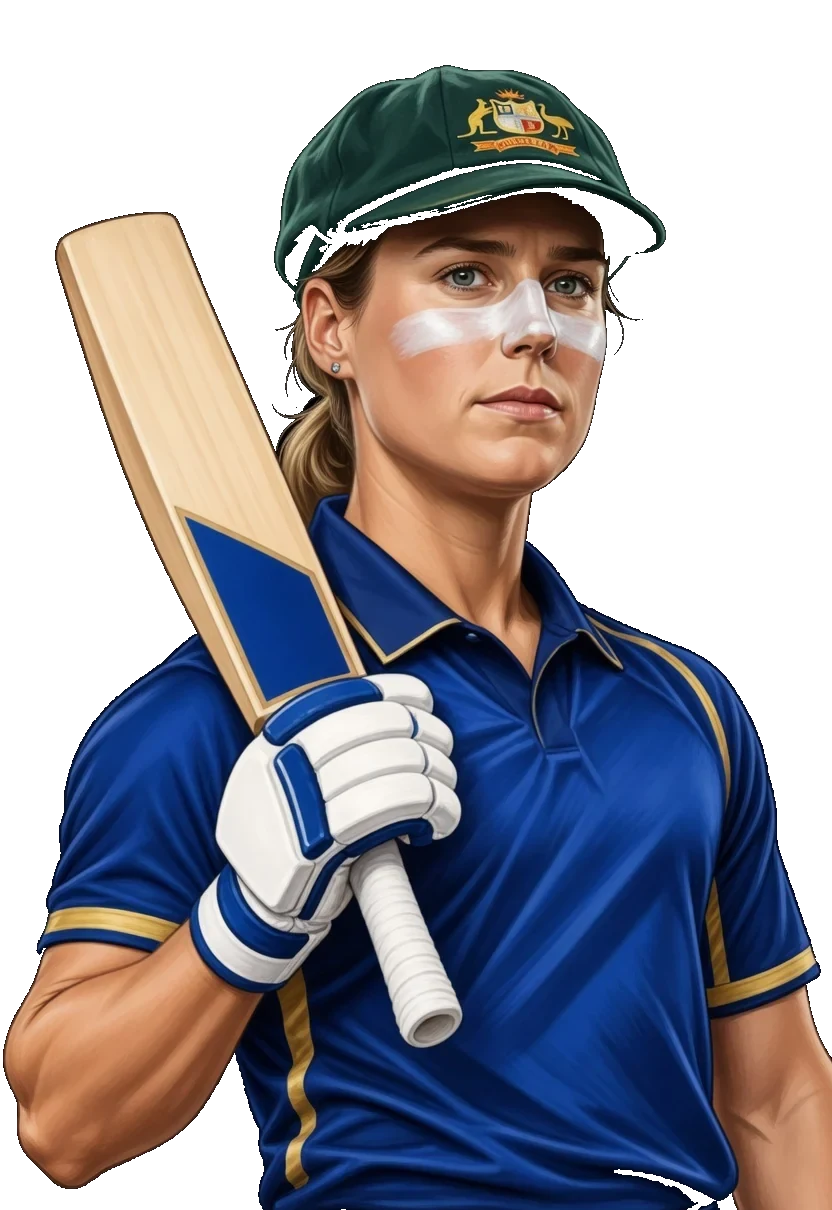
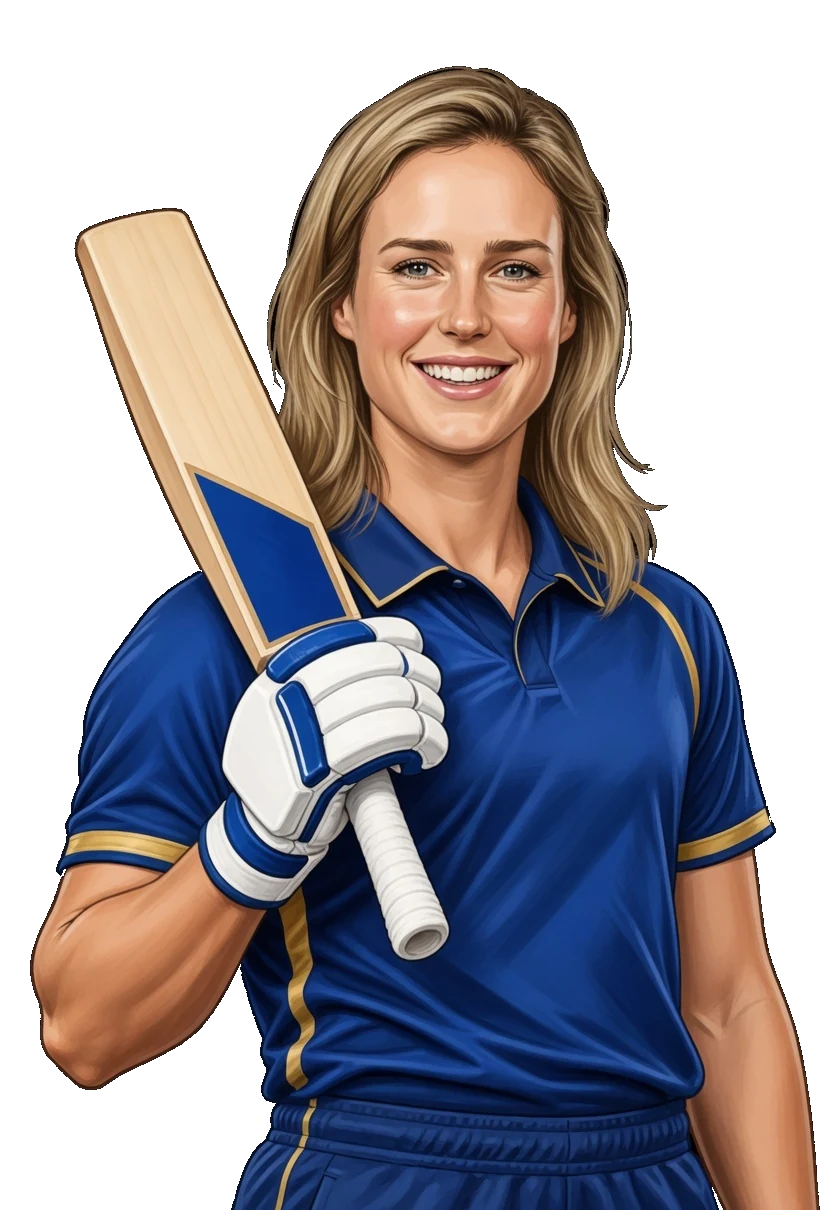
Fix mobile hero crop and refresh women's player cutouts

diff --git a/web/home.css b/web/home.css
@@ -9,7 +9,7 @@
 .hero-cast{position:absolute;right:1%;bottom:0;z-index:1;display:flex;align-items:flex-end;height:88%;max-width:46%;pointer-events:none}
 .hero-face{width:clamp(70px,5.8vw,112px);flex:0 0 auto;margin-left:-1.4vw;text-decoration:none;color:#e8f1ff;pointer-events:auto;display:flex;flex-direction:column;align-items:center;filter:drop-shadow(0 16px 22px #0007)}
 .hero-face:first-child{margin-left:0}.hero-face:nth-child(even){transform:translateY(18px)}.hero-face img{width:100%;height:auto;display:block;background:transparent}
-.hero-face span{font-size:9px;letter-spacing:.04em;margin:6px 0 18px;text-align:center;text-shadow:0 1px 8px #000}.hero-primary{background:#3478f6;border:1px solid #71a5ff;color:white;padding:13px 19px;border-radius:8px;box-shadow:0 6px 30px #2366ed40}.hero-primary:hover{background:#2464db;text-decoration:none}.hero-primary span{margin-left:20px}.hero-secondary{color:#d0e0f7}.hero-secondary span{margin-left:6px}
+.hero-face span{font-size:9px;letter-spacing:.04em;margin:6px 0 18px;text-align:center;text-shadow:0 1px 8px #000;white-space:normal;line-height:1.2;width:100%}.hero-primary{background:#3478f6;border:1px solid #71a5ff;color:white;padding:13px 19px;border-radius:8px;box-shadow:0 6px 30px #2366ed40}.hero-primary:hover{background:#2464db;text-decoration:none}.hero-primary span{margin-left:20px}.hero-secondary{color:#d0e0f7}.hero-secondary span{margin-left:6px}
 .hero-find{margin-top:35px;max-width:374px}.hero-find label{font-size:9px;letter-spacing:1.7px;color:#a6bcd6;margin-bottom:9px}.hero-find>div{display:flex;background:#0d2238c9;border:1px solid #637f9b66;border-radius:8px;overflow:hidden}.hero-find input{background:transparent;color:#fff;border:0;width:100%;min-width:0;font-size:12px;padding:13px}.hero-find input::placeholder{color:#b6c6d8;opacity:1}.hero-find button{border:0;border-radius:0;color:#c3ddff;background:transparent;font-size:20px;padding:5px 18px}
 .hero-float{position:absolute;padding:17px 20px;border:1px solid #9fc5ff40;border-radius:13px;background:linear-gradient(120deg,#1d3d62b8,#081c32d6);backdrop-filter:blur(16px);box-shadow:0 15px 45px #0003;color:#fff;animation:record-float 6s ease-in-out infinite;transform:translate3d(0,0,45px)}
 .hero-float>span{font-size:8px;letter-spacing:1.4px;color:#b5cbe6;display:block}.hero-float strong{font-size:29px;letter-spacing:-1px;line-height:1.25;display:block;margin-top:8px;font-variant-numeric:tabular-nums}.hero-float small{display:block;font-size:11px;font-weight:500;letter-spacing:0;color:#c5d7eb;margin-top:3px}.hero-float-top{right:32px;top:46px;width:209px}.hero-float-bottom{right:35px;bottom:86px;animation-delay:-3s;width:213px}.hero-float-bottom:hover{text-decoration:none;border-color:#9fc5ff}.hero-mini-bars{display:flex;height:26px;align-items:end;gap:6px;margin-top:13px}.hero-mini-bars i{flex:1;border-radius:2px;background:linear-gradient(#78bdff,#326acb);height:35%}.hero-mini-bars i:nth-child(2n){height:60%}.hero-mini-bars i:nth-child(3n){height:80%}.hero-mini-bars i:last-child{height:100%}
@@ -27,7 +27,7 @@
 @media(min-width:1450px){.hero-copy h1{font-size:65px}}
 @media(max-width:1000px){.hero-copy{padding-left:32px;width:62%}.hero-copy h1{font-size:49px}.hero-float-top{right:20px;top:32px;width:180px}.hero-float-bottom{right:20px;width:180px}.hero-bottom{left:32px}.hero-description{max-width:320px}.story-heading{align-items:start;flex-direction:column}}
 @media(max-width:1000px){.hero-cast{height:70%;right:0}.hero-face{width:88px}.hero-face img{width:88px}.hero-copy{width:58%}}
-@media(max-width:700px){.hero-cast{position:relative;height:auto;right:auto;margin:8px 12px 70px;overflow-x:auto;padding:0 8px}.hero-face{width:96px;margin-left:-10px;transform:none!important}.hero-face img{width:96px}.cricket-hero{margin-top:18px;min-height:920px;border-radius:17px}.hero-copy{padding:35px 25px 0;width:100%}.hero-copy h1{font-size:clamp(34px,10.3vw,48px);letter-spacing:-1.7px}.hero-kicker{font-size:8px;letter-spacing:1.4px;margin-bottom:22px}.hero-description{font-size:13px;max-width:350px;line-height:1.7;margin-bottom:23px}.hero-actions{gap:18px;font-size:11px}.hero-primary{padding:12px 14px}.hero-primary span{margin-left:12px}.hero-find{margin-top:24px;max-width:none}.hero-art{inset:auto -4% 24px;height:430px}.hero-art img{object-position:72% center}.cricket-hero:after{background:linear-gradient(180deg,#031020 0%,#031020 45%,transparent 67%,#03102000 88%,#031020 98%)}.hero-float-top{display:none}.hero-float-bottom{left:20px;right:auto;bottom:85px;width:158px;padding:12px 14px}.hero-float strong{font-size:25px}.hero-float>span{font-size:7px;letter-spacing:1px}.hero-float small{font-size:10px}.hero-bottom{left:20px;right:20px;bottom:20px}.hero-bottom i{display:none}.hero-bottom>span{font-size:8px;letter-spacing:1px}.hero-bottom b{margin:0 4px}.hero-motion{font-size:9px}.archive-story{padding:20px}.story-heading h2{font-size:24px}.story-filters{width:100%;gap:10px}.story-filters label{flex:1;min-width:0}.story-filters select{min-width:0;width:100%}.chart-summary strong{display:block}.cricket-timeline{grid-template-columns:repeat(2,minmax(0,1fr));gap:16px}.cricket-timeline h3{font-size:13px}.cricket-timeline a{padding-left:12px;padding-right:25px}.timeline-arrow{right:10px}}
+@media(max-width:700px){.cricket-hero{margin-top:18px;min-height:0;border-radius:17px}.hero-copy{padding:28px 20px 8px;width:100%}.hero-cast{position:relative;height:auto;max-width:none;width:auto;right:auto;margin:4px 0 4px;padding:10px 16px 20px;overflow-x:auto;overflow-y:visible;gap:6px;-webkit-overflow-scrolling:touch}.hero-face{width:78px;margin-left:0;transform:none!important;flex-shrink:0}.hero-face img{width:78px}.hero-face span{width:78px;margin:6px 0 0;font-size:9px;white-space:normal}.hero-bottom{position:relative!important;left:0!important;right:0!important;bottom:auto!important;padding:10px 20px 16px;margin-top:6px}.hero-copy h1{font-size:clamp(34px,10.3vw,48px);letter-spacing:-1.7px}.hero-kicker{font-size:8px;letter-spacing:1.4px;margin-bottom:22px}.hero-description{font-size:13px;max-width:350px;line-height:1.7;margin-bottom:23px}.hero-actions{gap:18px;font-size:11px}.hero-primary{padding:12px 14px}.hero-primary span{margin-left:12px}.hero-find{margin-top:24px;max-width:none}.hero-art{inset:auto 0 0;height:200px;opacity:.4}.hero-art img{object-position:72% center}.cricket-hero:after{background:linear-gradient(180deg,#031020 0%,#031020 45%,transparent 67%,#03102000 88%,#031020 98%)}.hero-float-top{display:none}.hero-float-bottom{left:20px;right:auto;bottom:85px;width:158px;padding:12px 14px}.hero-float strong{font-size:25px}.hero-float>span{font-size:7px;letter-spacing:1px}.hero-float small{font-size:10px}.hero-bottom i{display:none}.hero-bottom>span{font-size:8px;letter-spacing:1px}.hero-bottom b{margin:0 4px}.hero-motion{font-size:9px}.archive-story{padding:20px}.story-heading h2{font-size:24px}.story-filters{width:100%;gap:10px}.story-filters label{flex:1;min-width:0}.story-filters select{min-width:0;width:100%}.chart-summary strong{display:block}.cricket-timeline{grid-template-columns:repeat(2,minmax(0,1fr));gap:16px}.cricket-timeline h3{font-size:13px}.cricket-timeline a{padding-left:12px;padding-right:25px}.timeline-arrow{right:10px}}
 
 .home-chart{margin:18px 0 20px;padding:14px 15px;border:1px solid var(--border);border-radius:10px;background:var(--soft)}.home-chart figcaption{font-size:10px;font-weight:700;color:var(--muted);margin-bottom:13px}.home-format-bar{margin:10px 0}.home-format-label{display:flex;justify-content:space-between;gap:12px;font-size:11px;color:var(--muted)}.home-format-label strong{color:var(--ink)}.home-format-label span{font-variant-numeric:tabular-nums;text-align:right}.home-dual-track{display:flex;gap:2px;height:8px;margin-top:6px;background:var(--border);border-radius:5px;overflow:hidden}.home-dual-track i{display:block;height:100%}.home-bar-india{background:#2563eb}.home-bar-australia{background:#d79019}.home-bar-other{background:#94a3b8}.home-world-bar{display:grid;grid-template-columns:minmax(130px,1fr) 1.2fr 36px;gap:10px;align-items:center;margin:10px 0;font-size:10px}.home-world-bar span{color:var(--ink)}.home-world-track{height:7px;background:var(--border);border-radius:5px;overflow:hidden}.home-world-track i{display:block;height:100%;background:var(--accent);border-radius:5px}.home-world-bar strong{text-align:right;font-variant-numeric:tabular-nums;color:var(--ink)}
 @media(prefers-reduced-motion:reduce){.cricket-hero *{animation:none!important;transition:none!important}.cricket-hero .hero-art{transform:none}.archive-column i,.cricket-timeline a{transition:none}}
@@ -35,7 +35,7 @@
 /* Static hero treatment: the generated artwork carries the visual moment. */
 .hero-art,.hero-art img{transform:none!important;animation:none!important;transition:none!important}
 .hero-orbit,.hero-float,.hero-motion{display:none!important}
-.hero-bottom{bottom:26px}
+@media(min-width:701px){.hero-bottom{bottom:26px}}
 nav#nav a[href*="crickrida"]{color:#10233f;background:#e9b95f;border-radius:999px;padding:9px 13px;box-shadow:0 5px 16px #e9b95f33}
 nav#nav a[href*="crickrida"]:hover{text-decoration:none;background:#f4ca75;transform:translateY(-1px)}
 html[data-theme=dark] nav#nav a[href*="crickrida"]{color:#10233f}
